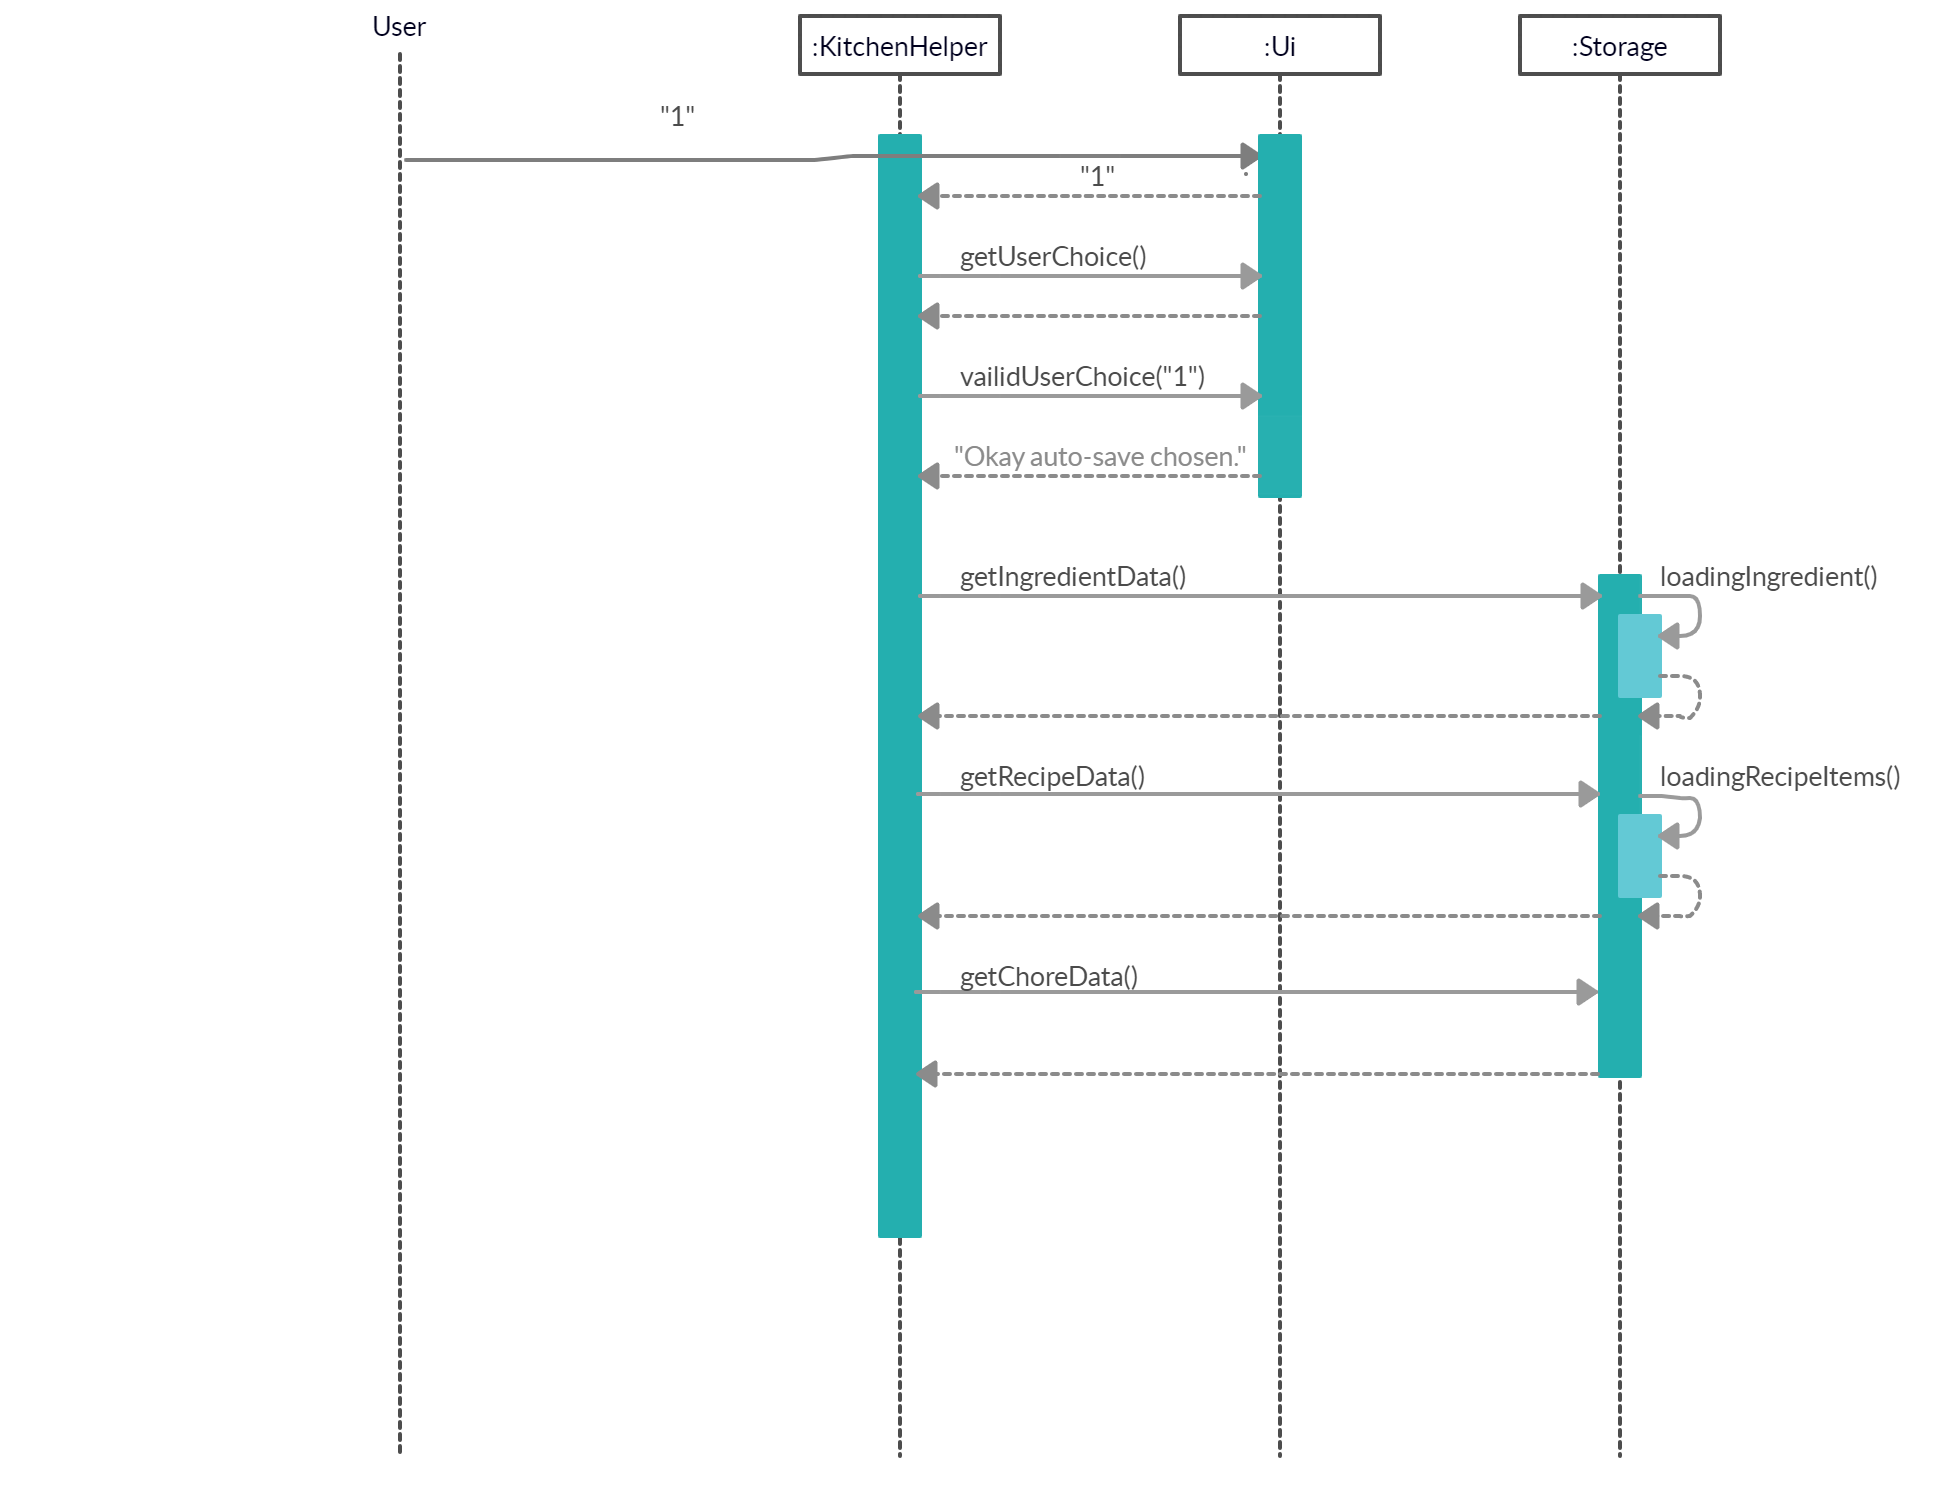
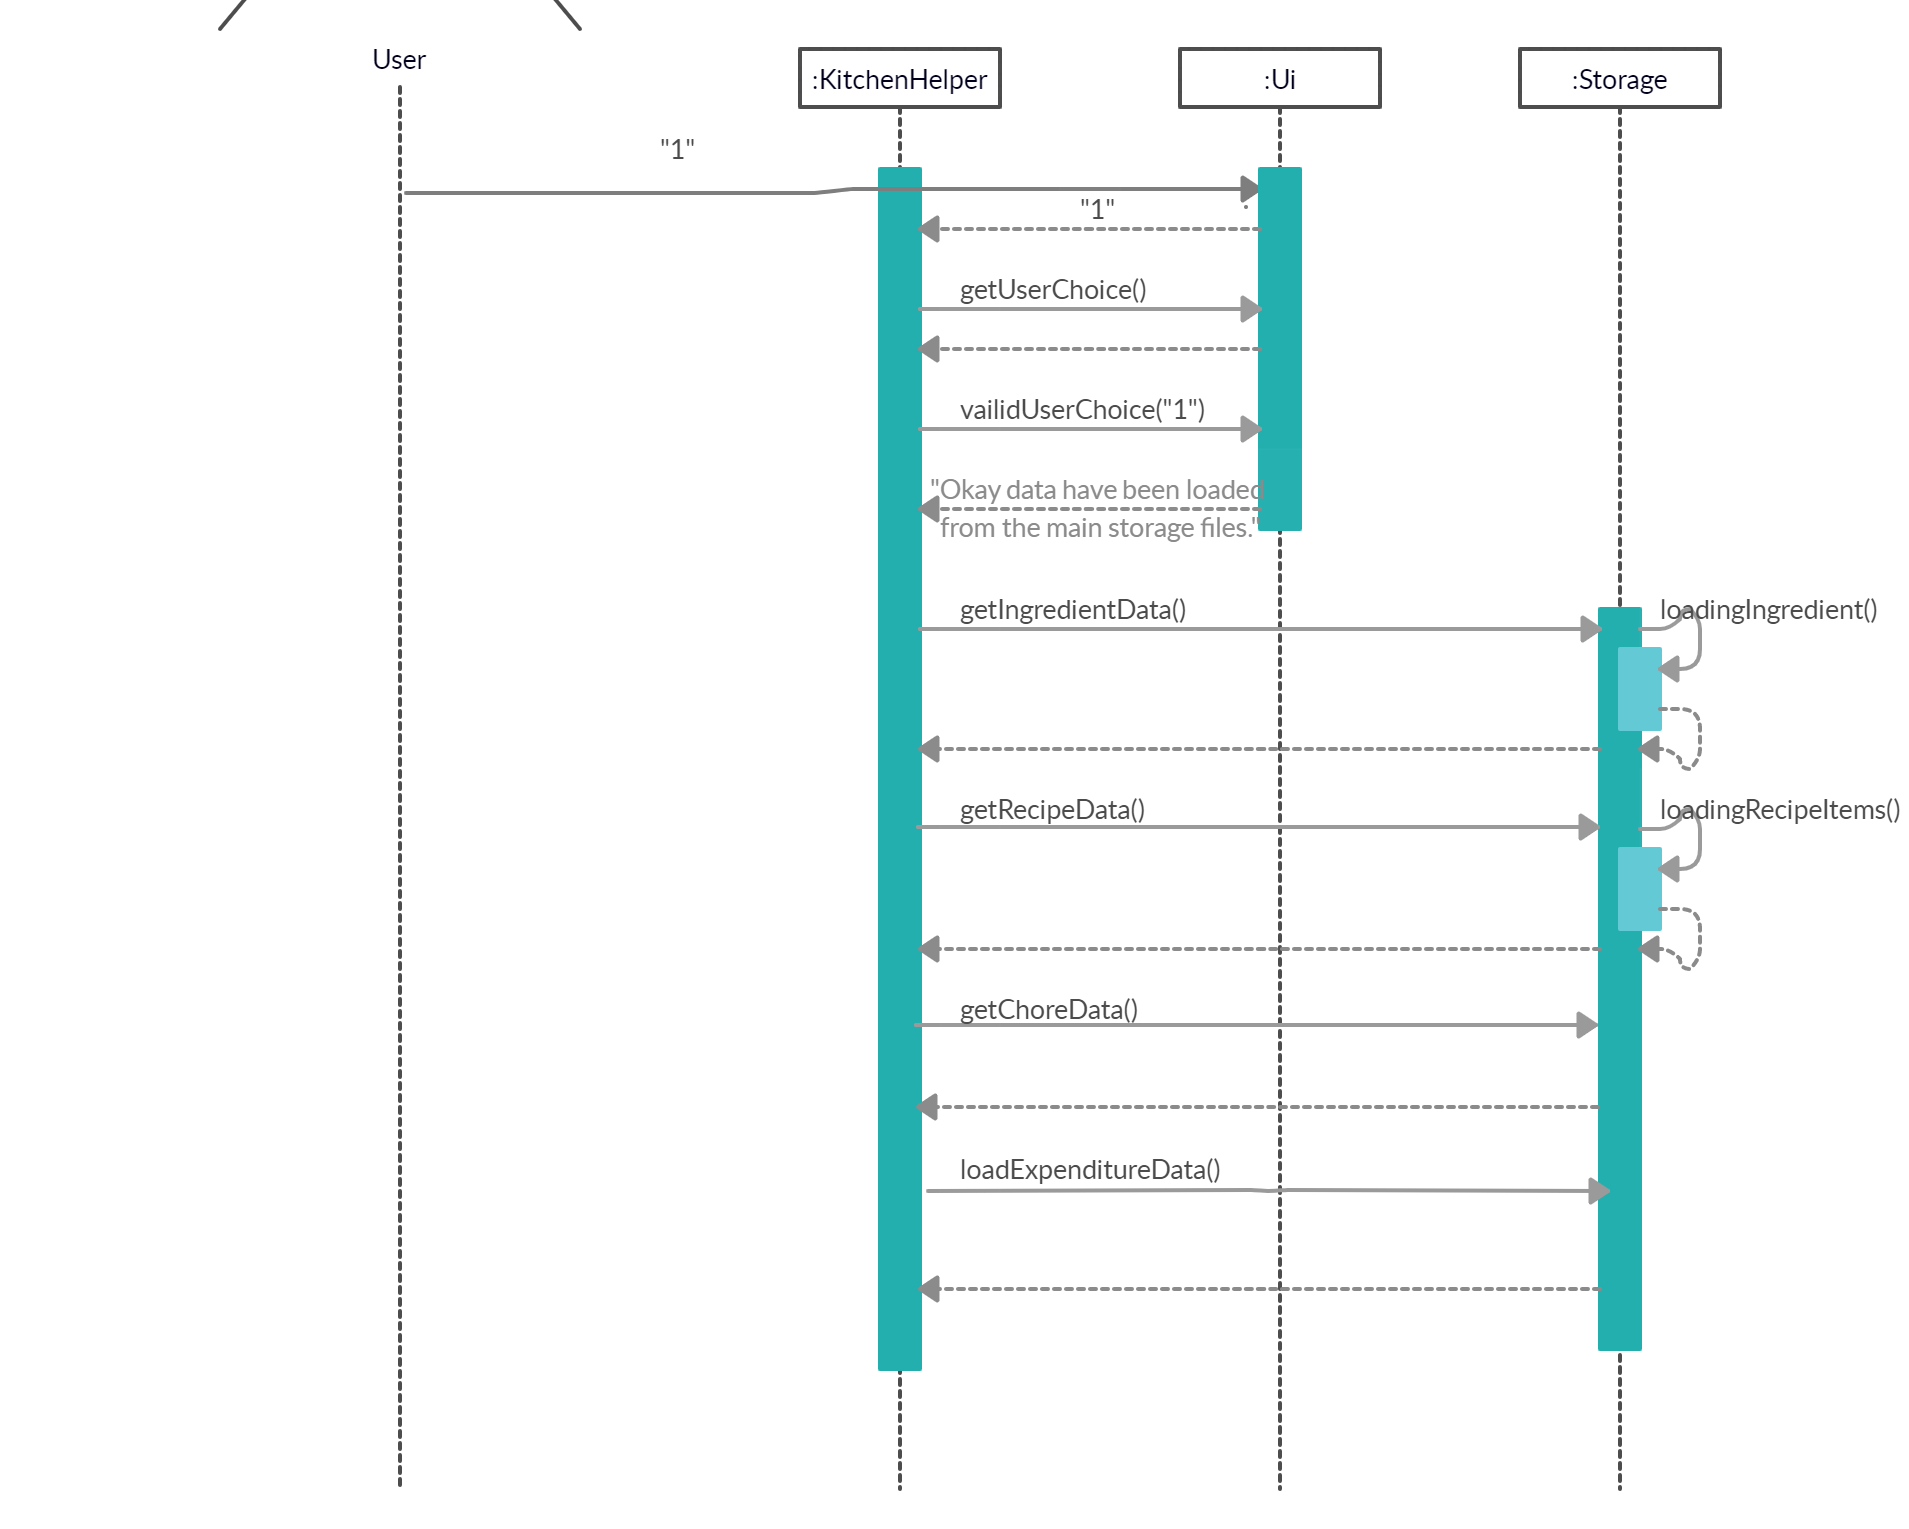
Update storage sections of DG with regards to new Expenditure features

diff --git a/docs/DeveloperGuide.md b/docs/DeveloperGuide.md
@@ -158,11 +158,11 @@ The Model component contains `Ingredient`, `Recipe` and `Chore` classes, which s
 
 A Storage object is created by the KitchenHelper class to handle the loading and saving of ingredients, recipes and chores data.
 
-The Storage() method acts as a constructor with filepaths to local save files for ingredients, recipes and chores data.
+The Storage() method acts as a constructor with filepaths to local save files for ingredients, recipes, chores and expenditure data.
 
-The getIngredientData(), getRecipeData() and getChoreData() methods are used to read saved data from local files into the current session of KitchenHelper. loadingIngredients() and loadingRecipeItems() methods are called in getIngredientData() and getRecipeData() respectively to sort out which Ingredient object class each object belongs to.
+The getIngredientData(), getRecipeData(), getChoreData() and loadExpenditureData() methods are used to read saved data from local files into the current session of KitchenHelper. loadingIngredients() and loadingRecipeItems() methods are called in getIngredientData() and getRecipeData() respectively to sort out which Ingredient object class each object belongs to.
 
-The saveIngredientData(), saveRecipeData() and saveChoreData() methods write the current state of KitchenHelper into the local save files by calling them in command classes such as AddChoreCommand and DeleteIngredientCommand.
+The saveIngredientData(), saveRecipeData(), saveChoreData() and saveExpenditureData() methods write the current state of KitchenHelper into the local save files by calling them in various command classes such as AddChoreCommand and DeleteIngredientCommand.
 
 [&#8593; Return to Top](#developer-guide)
 
@@ -772,16 +772,17 @@ The following steps explained sequence diagram for `searchchore` command:
 ### 4.4. Storage
 #### 4.4.1. Select files to load from and save to
 
-The select files to load from and save to feature allows the user to choose an option to either load their data from the auto-save mode or the manual-save mode. The auto-save mode keeps track of and stores all changes made in the program and provides the user with the most recent representation of their inventory. While the manual-save mode stores the state of the program data from the most recent usage of the save command by the user. 
+The select files to load from and save to feature allows the user to choose an option to either load their data from the normal or restore mode. The normal mode will load Kitchen Helper from the main storage files which store the data from the last used session of the user, providing the most recent representation of their inventory. 
 
-If the user chooses the manual-save mode, it will overwrite all the data stored in auto-save mode. However, any subsequent changes made to the program data will be saved by auto-save mode regardless of initial load options. To save by manual-save mode, the user will have to use the save current state function with the save command (see section 4.4.2)[4.4.2. Save current state](#442-save-current-state).
+On the other hand, the restore mode will load Kitchen Helper from the backup storage files which store the version of data manually saved from the user’s last usage of the save command. The restore mode gives users access to the backup storage files, however, users will have to use the save command to update the backup storage files.
+
+Any subsequent changes made to the program data will be saved into the main storage files regardless of initial load options. To save a backup of the current session, the user will have to use the save current state function with the save command (see section 4.4.2)[4.4.2. Save current state](#442-save-current-state).
     
 ##### Implementation
 1. For instance, if the User selects to load files from auto-save mode, User executes `1`
 	1. A `Ui` object will be created and calls `Ui#getUserChoice()` and returns String `UserChoice`. 
 	1. The `Ui` object then calls `Ui#validUserChoice()` with `UserChoice` as the parameter. If `UserChoice` is invalid, `Ui#validUserChoice()` will call `Ui#askForReInput()`.
-	1. The variable `userCommandInput` is being parsed into the `Parser` class as an argument for this method `Parser#parseUserCommand()`.
-
+	
 2. Creation of storage object
     
     Ingredient data:
@@ -794,6 +795,9 @@ If the user chooses the manual-save mode, it will overwrite all the data stored 
 
     Chore data:
     1. A `Storage` object will be created and calls `Storage#getChoreData()` to load and parse the contents of chore save file into a newly created `choreList ArrayList<Chore>`.
+
+    Expenditure data:
+    1. `Storage#loadExpenditureData()` is called to load and parse the contents of expenditure save file and creates an instance of `Expenditure`.
 
 All description and warnings to the user utilises the UI class, which controls the printing of the text on the console.
 
@@ -819,7 +823,7 @@ Aspects: How saving of files executes:
 [&#8593; Return to Top](#developer-guide)
 
 #### 4.4.2. Save current state
-The save current state feature allows the user to store the current state of the program data by manual-save mode. Manual-save mode data will be updated and replaced with the current state when save command is implemented.
+The save current state feature allows the user to store the current state of the program data into the backup storage files. The contents of the backup storage files will be updated and replaced with the current state when save command is implemented by the user.
 
 ##### Implementation
 The following steps explain how `save` command works:
@@ -827,7 +831,7 @@ The following steps explain how `save` command works:
 2. `KitchenHelper` calls `Parser#parseUserCommand()` which splits the user’s input into 2 parts 
 and enters a switch case for execution.  
 3. `parseUserCommand` in the Parser object will call a method `SaveStateCommand`.  
-4. On execute(), `Storage.copyFile()` will be called three times to copy contents of ingredients, recipes and chore save files into their respective manual-mode save files.
+4. On execute(), `Storage.copyFile()` will be called four times to copy contents of ingredients, recipes, chores and expenditure save files into their respective backup storage files.
 
 ##### Design considerations:
 Aspects: How saving of current state data executes:
@@ -1129,6 +1133,10 @@ Use case ends.
    1. Prerequisites: The chore list save file should not be empty. 
    1. Expected: Previously stored chore data can be seen using `listchore all` command.
  
+1. Load expenditure data into Kitchen Helper.
+   1. Prerequisites: The expenditure save file should not be empty. 
+   1. Expected: Previously stored expenditure data of the week can be seen using `displayexpenditure` command.
+ 
 If any of the save files are empty, the user can choose to populate the files with their own user commands or alternatively, use any of the test cases below:
 
 1. `addrecipe /n Chicken Salad /i Chicken Breast:2:meat, Lettuce:4:vegetable`
@@ -1136,6 +1144,8 @@ If any of the save files are empty, the user can choose to populate the files wi
 3. `addingredient /n kailan /c Vegetable /q 30 /p 30.45 /e 12/03/2020`
 4. `addingredient /n HL Milk /c Dairy /q 3 /p 12.2 /e 14/03/2020`
 5. `addchore buy groceries /by Tuesday 12pm`
+
+Note that expenditure changes when `addingredient`, `deleteingredient`, or `cookrecipe` commands are used.
 
 #### F.16. Display expenditure
 
